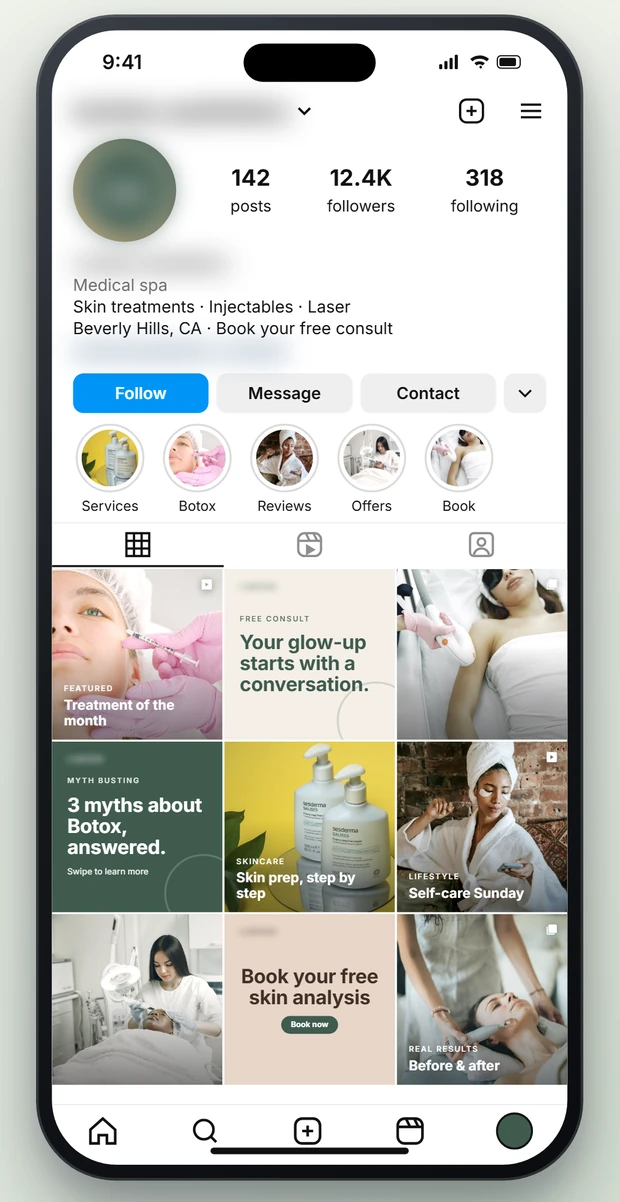
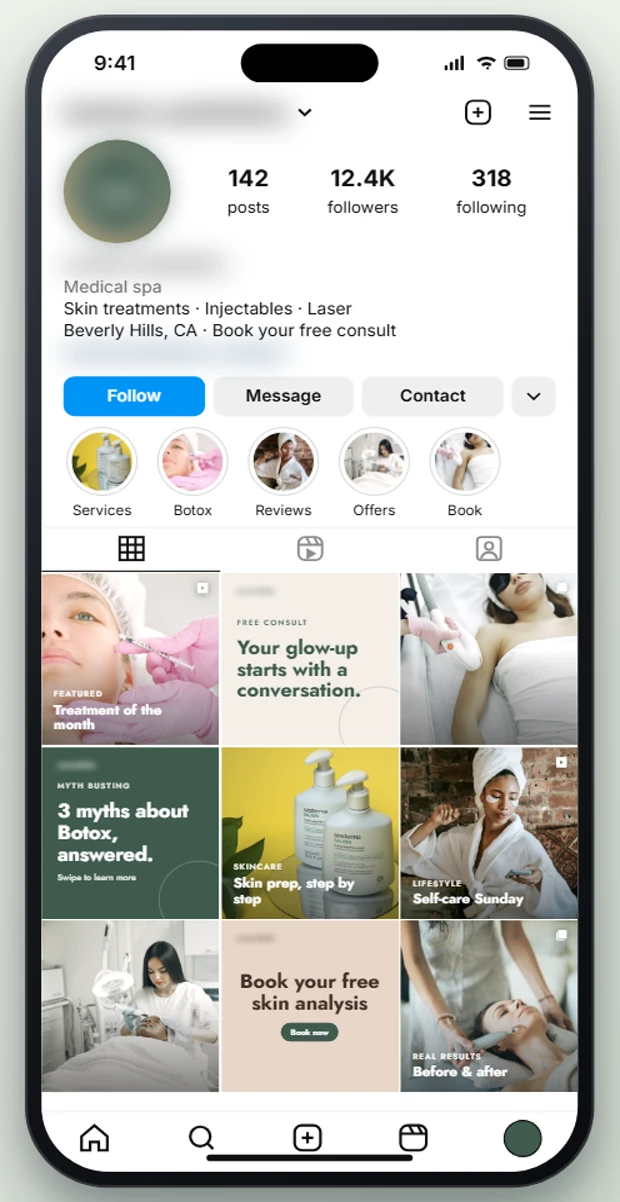
AMB resume: fix hero carousel cropping, reorder sections, clean up copy
- Root-cause fix for carousel 1/2 cropping on phone: .herocar had no
  explicit grid-template-columns, so its implicit column could grow
  past the container width. Added minmax(0,1fr) to match the other
  grids.
- Reordered amb-va work section: Carousel 3 & 4 now sit right after
  the IG feed concept for Alanah, with the other feed concepts
  (makeup, sweet potato, aesthetic clinic) after them.
- Removed "(not AI)" from the designs heading and the "See it, not
  just read it" subheading for this job (workTitle: null).
- Fixed a real font mismatch in the Aesthetic Clinic IG feed concept:
  the phone mockup's embedded grid tiles inherited the Instagram UI
  font (Inter) instead of the concept's brand font (Jost), unlike the
  flat grid version. Added an explicit font-family on .pg and
  re-exported all three clinic images from the corrected source.

diff --git a/cv/index.html b/cv/index.html
@@ -93,7 +93,7 @@ mark{background:none;color:var(--primary-dark);font-weight:600;padding:0}
 .herocar[hidden]{display:none}
 .herocar>.wsub{text-align:center;margin-top:34px}
 .herocar>.blurb{text-align:center;margin-left:auto;margin-right:auto}
-.herocar{margin:18px 0 6px;display:grid;gap:16px;width:100%;min-width:0}
+.herocar{margin:18px 0 6px;display:grid;grid-template-columns:minmax(0,1fr);gap:16px;width:100%;min-width:0}
 .hc-row{min-width:0}
 .hc-row .hc-t{text-align:center;margin:10px 0 16px}
 .hc-t .hc-n{display:inline-flex;align-items:center;gap:12px;font-size:clamp(13px,1.3vw,16px);font-weight:700;letter-spacing:.28em;text-transform:uppercase;color:var(--primary)}
@@ -838,7 +838,7 @@ const WB = {
   foodPosters: n => `<h2 class="title wsub">${esc(B.work.foodPosters.label)}</h2><p class="blurb">${esc(B.work.foodPosters.blurb)} Tap any poster to enlarge it.</p>${marqueeHTML("foodPosters")}`,
   socialDesigns: n => `<h2 class="title wsub">${esc(B.work.socialDesigns.label)}</h2><p class="blurb">${esc(B.work.socialDesigns.blurb)} Tap any design to enlarge it.</p>${marqueeHTML("socialDesigns")}`,
   socialFeeds: n => stacked("socialFeeds"),
-  designs: n => `<h2 class="title wsub">${esc(J.workTitle || "Graphic Designs I Create for You")}</h2><p class="blurb">${esc(B.work.designs.blurb)} Tap any design to enlarge it.</p>${marqueeHTML("designs")}`,
+  designs: n => `${J.workTitle === null ? "" : `<h2 class="title wsub">${esc(J.workTitle || "Graphic Designs I Create for You")}</h2>`}<p class="blurb">${esc(B.work.designs.blurb)} Tap any design to enlarge it.</p>${marqueeHTML("designs")}`,
   reels: n => reelsBlock("reels"),
   ambReel: n => reelsBlock("ambReel"),
   feeds: n => stacked("feeds"),

diff --git a/cv/jobs.js b/cv/jobs.js
@@ -339,15 +339,16 @@ window.RESUME_JOBS = {
       { title: "Carousel 3 · Conservative Business Style", sub: "Brown palette · “3 Things Every Beauty Business Needs”", images: ["amb-c1-1.jpg", "amb-c1-2.jpg", "amb-c1-3.jpg", "amb-c1-4.jpg", "amb-c1-5.jpg"] },
       { title: "Carousel 4 · Gen-Z Style", sub: "Photo-led, trendy · “Brow Era”", images: ["amb-gz-1.jpg", "amb-gz-2.jpg", "amb-gz-3.jpg", "amb-gz-4.jpg", "amb-gz-5.jpg"] }
     ],
+    workTitle: null,
     workSections: [
-      { type: "block", key: "ambFeedMore" },
       { type: "block", key: "ambCarouselsOld" },
+      { type: "block", key: "ambFeedMore" },
       { type: "block", key: "designs" },
       { type: "block", key: "reels" },
       { type: "cards", part: "support", keys: ["plushEmail", "cdcTracker", "ambAdmin"] }
     ],
     workHeads: {
-      designs: { label: "Social Media Design", title: "Graphic Design I Create for You (not AI)", text: "Posters, promos, vouchers and event graphics I design for clients in Canva." },
+      designs: { label: "Social Media Design", title: "Graphic Design I Create for You", text: "Posters, promos, vouchers and event graphics I design for clients in Canva." },
       reels: { label: "More Reels I Edit", title: "Reels for Other Clients", text: "Edited with captions and music in CapCut, ready for Instagram and Facebook." },
       support: { label: "Admin & Communication", title: "Email, Content Planning & Day-to-Day Admin", text: "Real work matched to what you asked for: email and Instagram communication, Notion content planning, and day-to-day admin." }
     },

diff --git a/concepts/instagram-feeds/index.html b/concepts/instagram-feeds/index.html
@@ -53,7 +53,7 @@ body{font-family:var(--f),"DM Sans",sans-serif;background:var(--bg);color:var(--
 .hl{flex:none;display:flex;gap:10px;padding:8px 16px 6px}
 .hl div{width:56px;text-align:center;font-size:10.5px}.hl i{width:52px;height:52px;border-radius:50%;border:1.5px solid #dbdbdb;padding:3px;display:block;margin:0 auto 4px}.hl i s{display:block;width:100%;height:100%;border-radius:50%;background:var(--hlbg);overflow:hidden;text-decoration:none}.hl i s img{width:100%;height:100%;object-fit:cover;display:block;filter:var(--ph)}
 .tabs{flex:none;display:flex;height:34px;border-top:1px solid #efefef}.tabs div{flex:1;display:grid;place-items:center;border-bottom:1.5px solid transparent}.tabs div.on{border-color:#111}.tabs svg{width:23px;height:23px;stroke:#8e8e8e;fill:none;stroke-width:1.8}.tabs .on svg{stroke:#111}
-.pg{flex:none;display:grid;grid-template-columns:repeat(3,minmax(0,1fr));gap:1.5px;margin-top:1.5px}
+.pg{flex:none;display:grid;grid-template-columns:repeat(3,minmax(0,1fr));gap:1.5px;margin-top:1.5px;font-family:var(--f),"DM Sans",sans-serif}
 .nav{margin-top:auto;height:46px;flex:none;border-top:1px solid #efefef;display:flex;justify-content:space-around;align-items:center;padding-bottom:6px}
 .nav svg{width:25px;height:25px;stroke:#111;fill:none;stroke-width:1.9}.nav .me{width:28px;height:28px;border-radius:50%;background:var(--av);border:1.5px solid #111}
 .bl{filter:blur(10px)}
